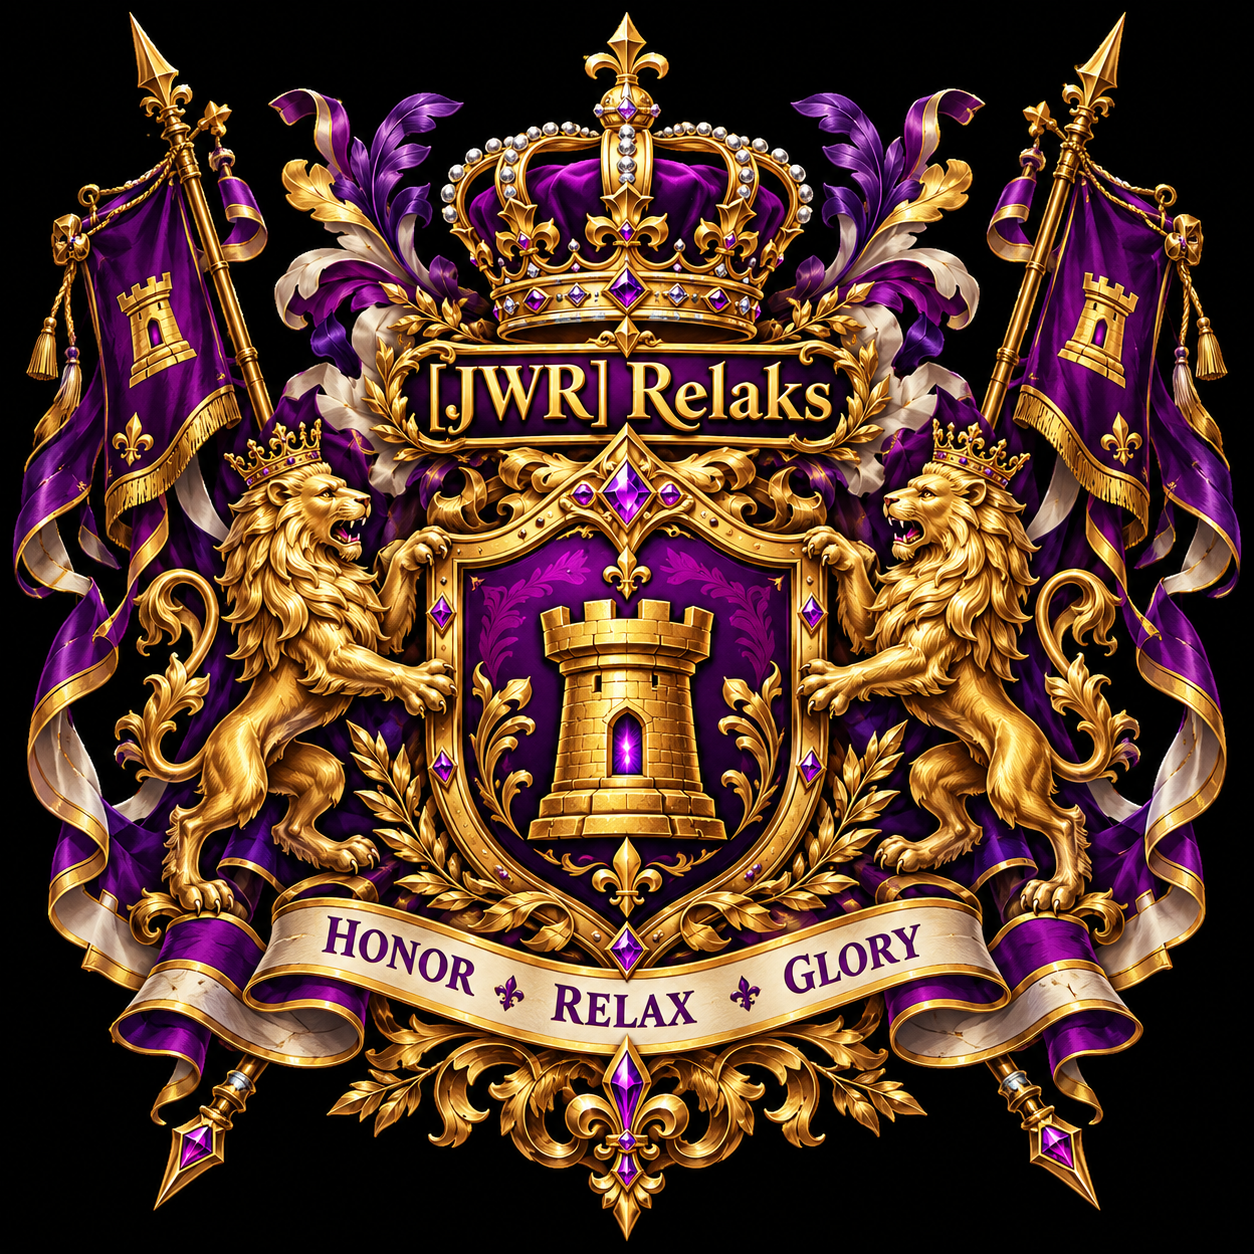
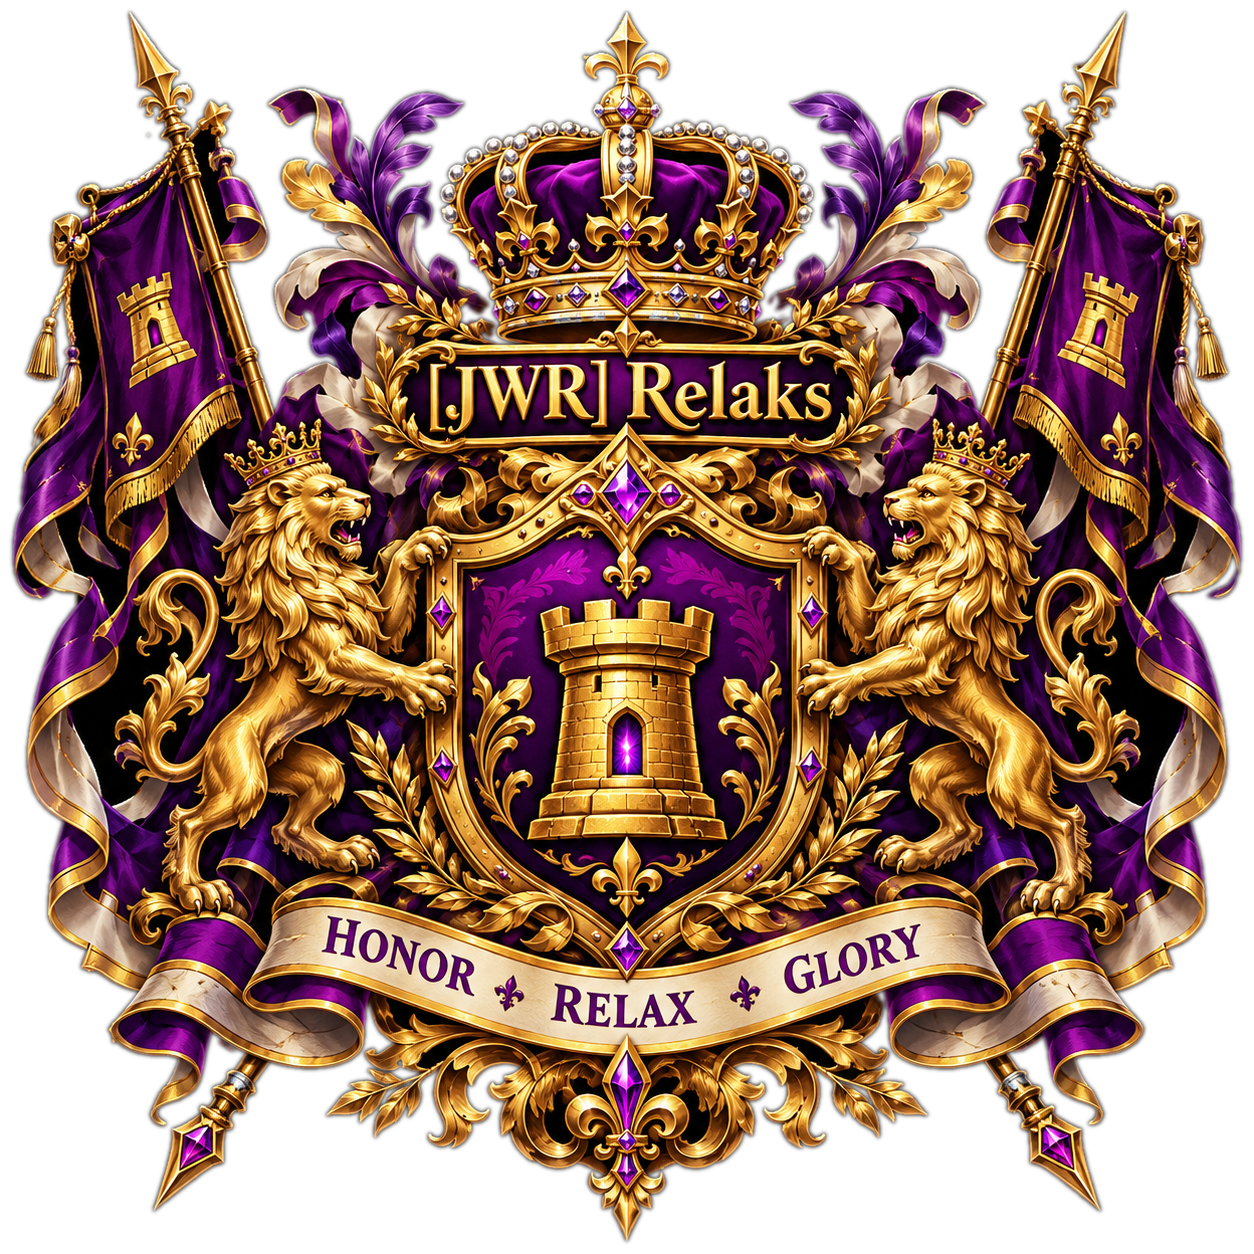
Fit JWR crest into results header

diff --git a/index.html b/index.html
@@ -1160,7 +1160,7 @@ table td.player,
   <div class="meta">📅 Ostatnia aktualizacja: 24.10.2026 09:11</div>
 <!-- JWR_HERB_EN_20261024 Ă˘â‚¬â€ť widoczny na kazdej zakladce -->
 <div class="jwr-royal-crest" style="display:flex;align-items:center;justify-content:center;margin:12px auto 20px;padding:0 10px;">
-  <img src="./herb_jwr_relaks_honor_relax_glory.png" alt="[JWR] Relaks Ă˘â‚¬â€ť HONOR RELAX GLORY" loading="eager" decoding="async" style="display:block;width:min(340px,80vw);max-height:300px;height:auto;object-fit:contain;" />
+  <img src="./herb_jwr_relaks_honor_relax_glory.png" alt="[JWR] Relaks Ă˘â‚¬â€ť HONOR RELAX GLORY" loading="eager" decoding="async" style="display:block;width:min(240px,72vw);max-height:240px;height:auto;object-fit:contain;" />
 </div>
 
   <div class="controls">
